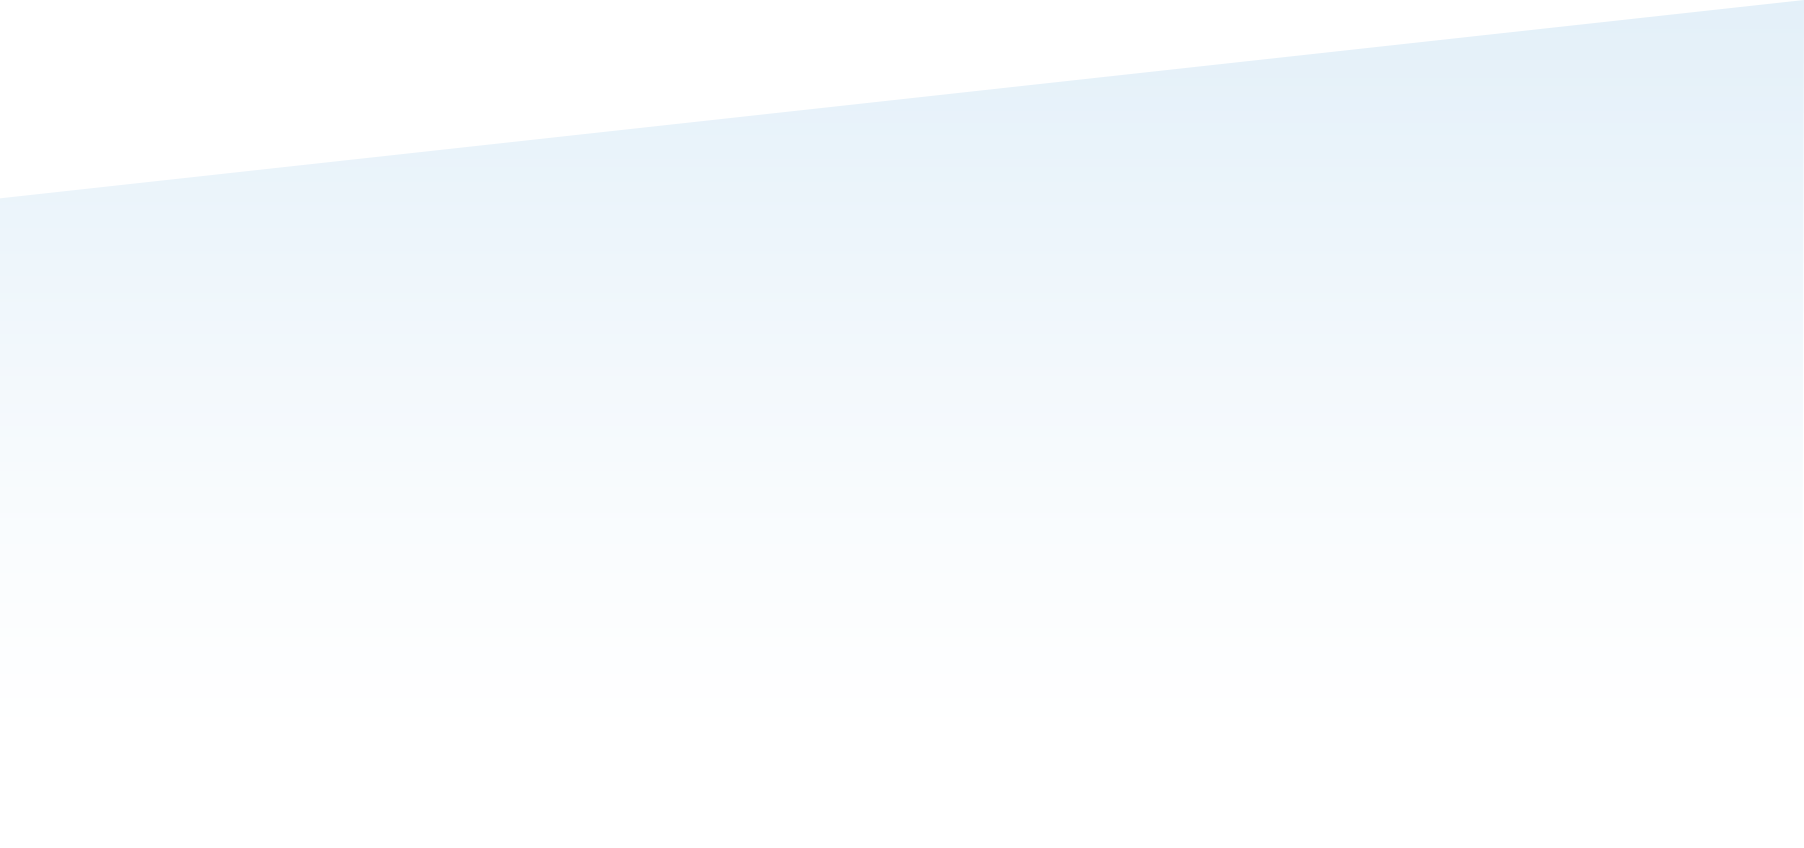
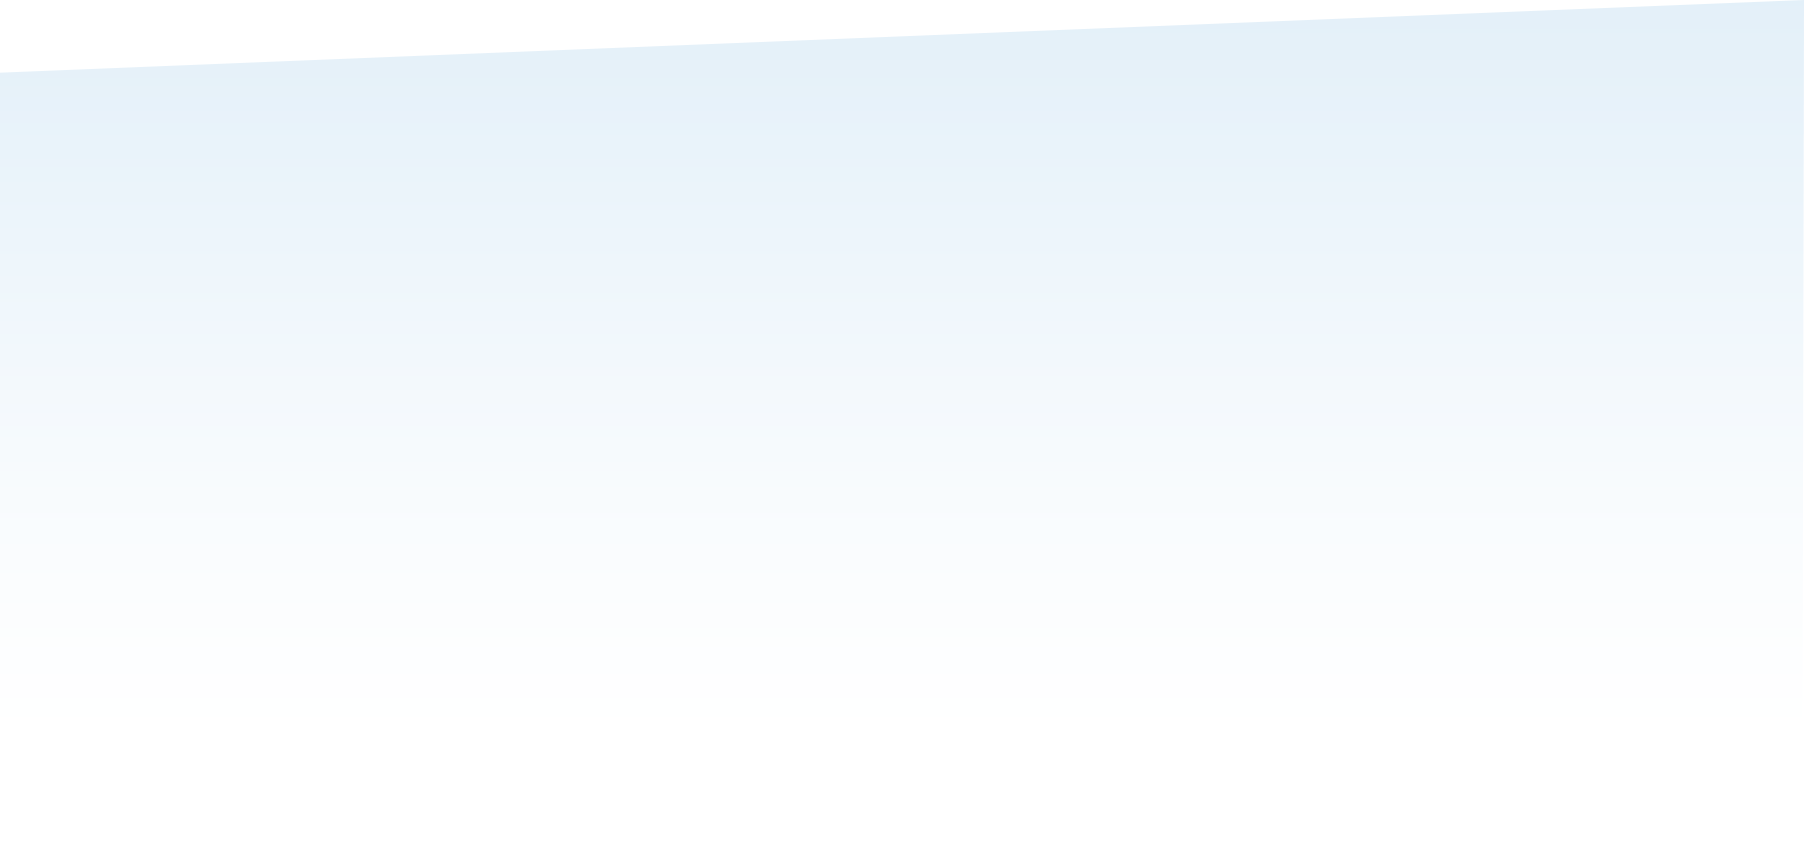
Moved diagonal bg line up on landing page

Changed region(s): [[0.0, 0.0, 0.9623, 0.1226]]

diff --git a/client/src/containers/home/index.js b/client/src/containers/home/index.js
@@ -60,7 +60,7 @@ class Home extends Component {
             <button onClick={this.scrollToMasternodes} className="homeMainBannerButton">Get a Masternode</button>
           </div>
         </div>
-        <div className="homeAboutContainer bg-light">
+        <div className="homeAboutContainer">
           <div className="contentContainer flex-wrap">
             <Col xl={{ size: 5, offset: 0 }} lg={{ size: 5, offset: 0 }} md={{ size: 6, offset: 3 }} sm={{ size: 6, offset: 3 }} xs={{ size: 6, offset: 3 }} className="d-flex justify-content-center">
               <img src="/assets/images/illustration.png" alt='Illustration'/>
